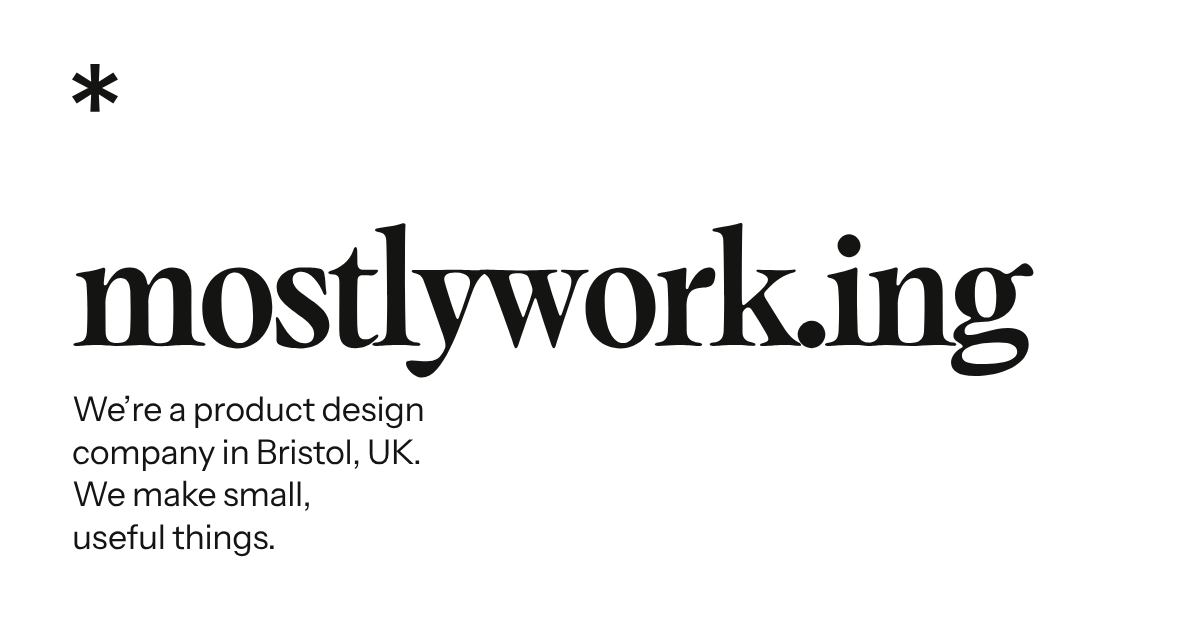
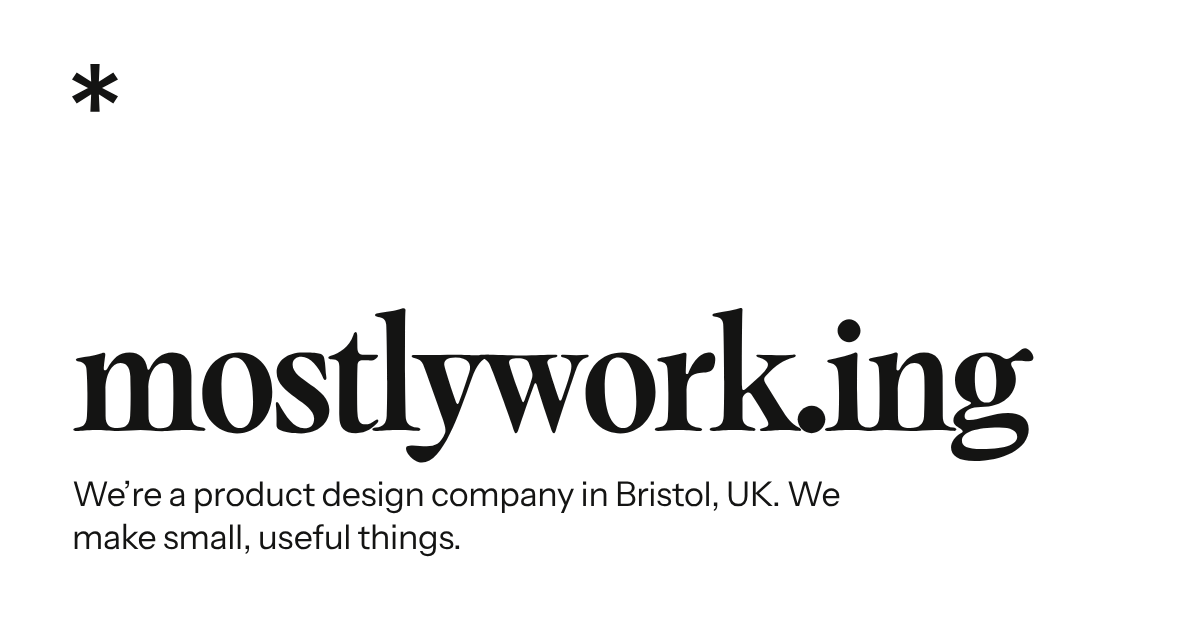
Make the lede a normal paragraph
Drop the forced line breaks and the 30ch cap: the lede (and the 404
text) is now a plain paragraph that wraps naturally across its six
grid columns. og.png matches.

Claude-Session: https://claude.ai/code/session_017UFRXYQtUMif1BB6ZR5QC6

Changed region(s): [[0.0617, 0.3317, 0.8633, 0.8143], [0.0617, 0.8143, 0.4008, 0.8746]]

diff --git a/index.html b/index.html
@@ -36,7 +36,7 @@
 <main>
   <section class="intro">
     <h1>mostlywork.ing</h1>
-    <p class="lede">We’re a product design<br>company in Bristol, UK.<br>We make small,<br>useful things.</p>
+    <p class="lede">We’re a product design company in Bristol, UK. We make small, useful things.</p>
     <address class="contact">
       <dl>
         <dt>Contact:</dt>

diff --git a/styles.css b/styles.css
@@ -173,7 +173,6 @@ a {
 
 .lede {
   grid-column: 1 / span 6;
-  max-width: 30ch;
   margin-top: clamp(24px, 4vw, 48px);
   text-wrap: pretty;
 }
